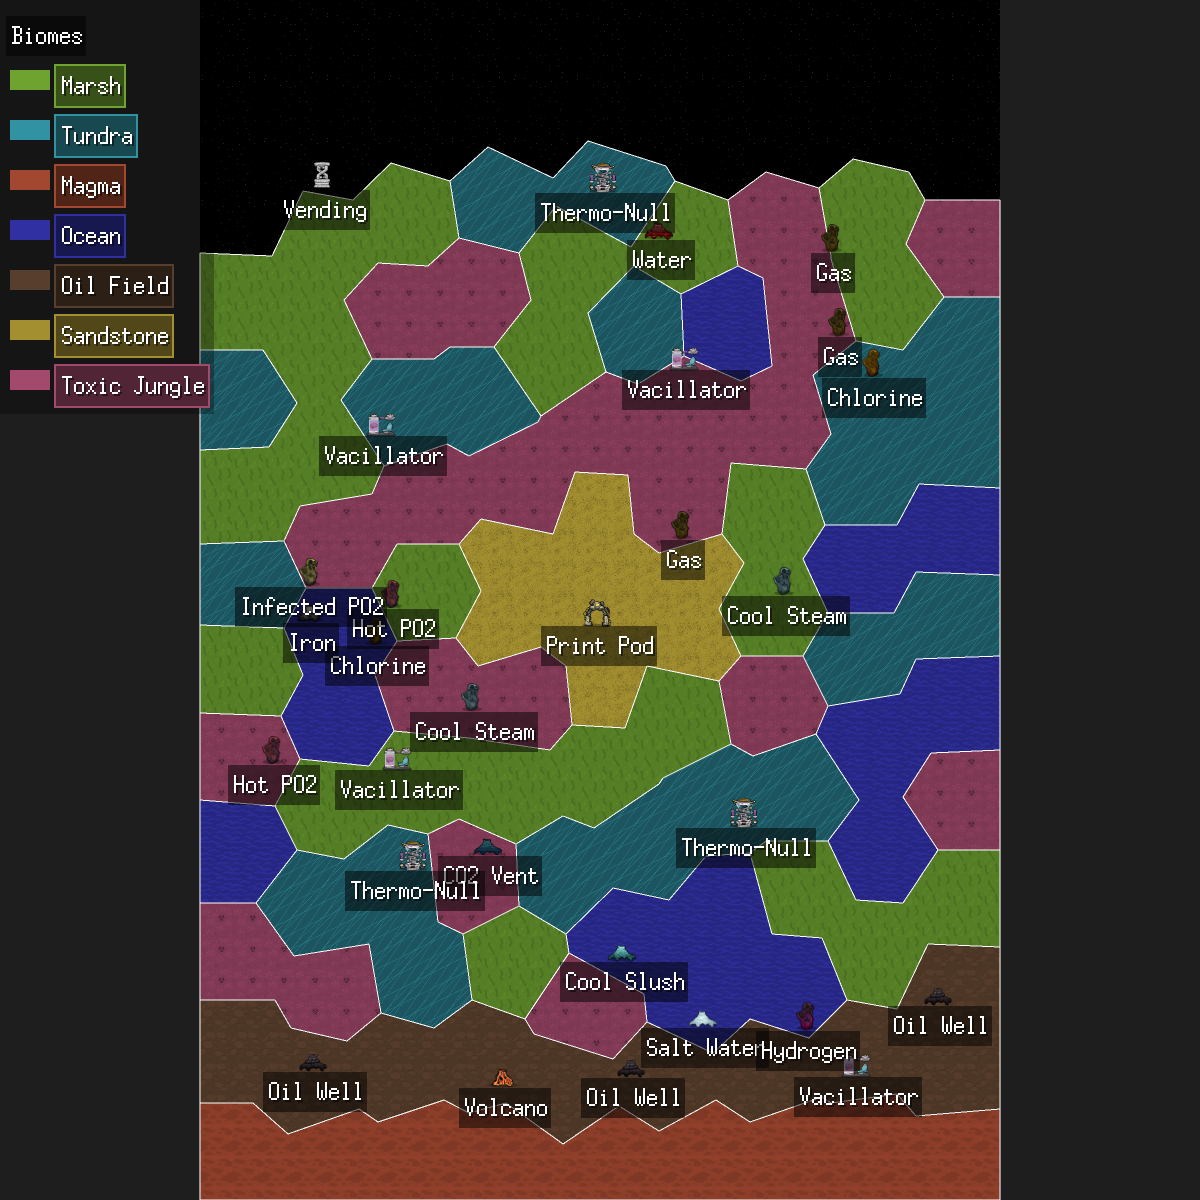
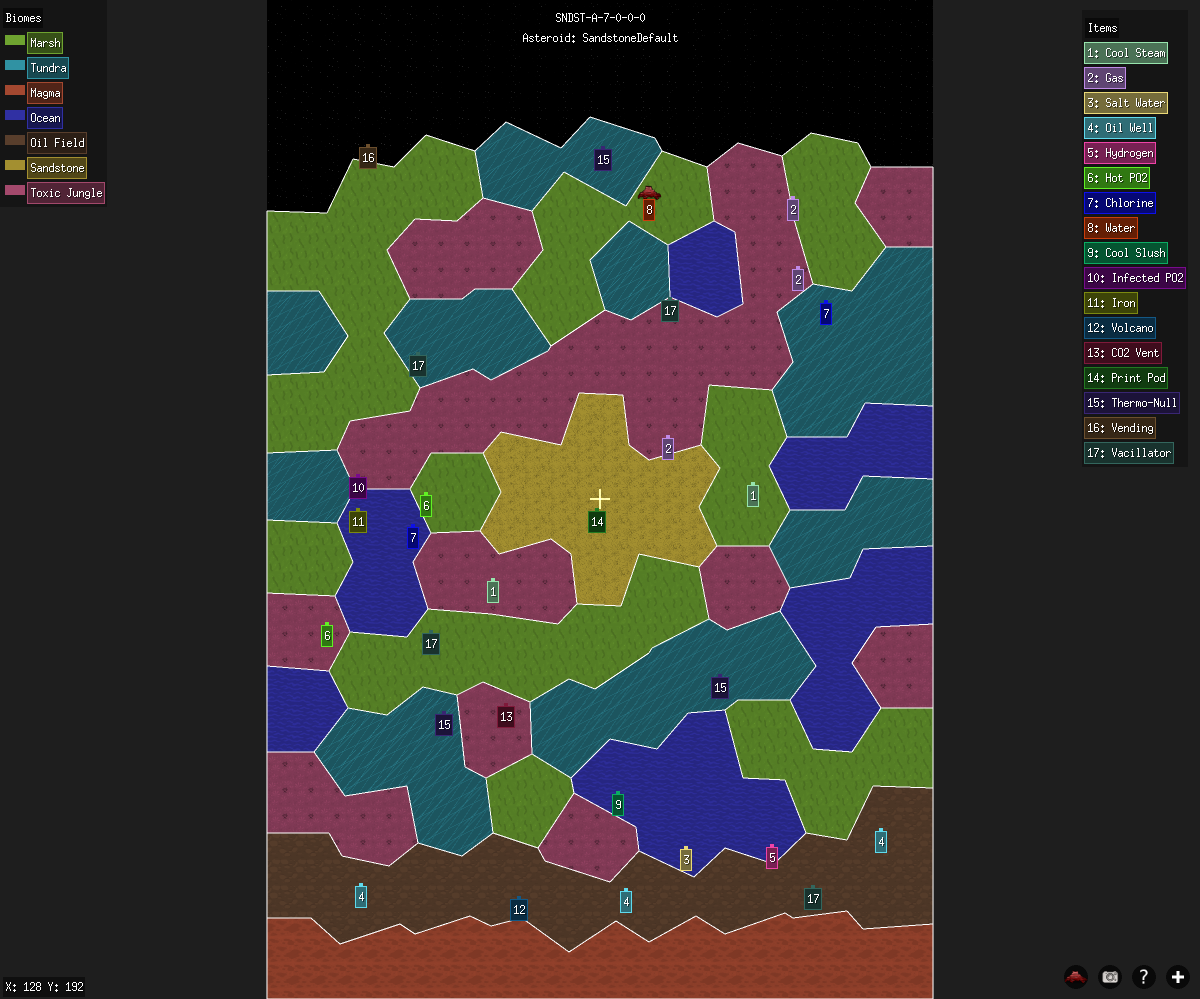
update screenshot and code

diff --git a/main.go b/main.go
@@ -1982,11 +1982,13 @@ func main() {
 		game.needsRedraw = true
 	}(asteroidIDVal)
 	if *screenshot != "" {
+
 		game.screenshotPath = *screenshot
-		game.screenshotMode = true
-		game.showHelp = false
-		game.showInfo = false
+		//game.screenshotMode = true
+		//game.showHelp = false
+		//game.showInfo = false
 		game.showShotMenu = false
+
 	}
 	ebiten.SetWindowSize(game.width, game.height)
 	ebiten.SetWindowResizingMode(ebiten.WindowResizingModeEnabled)
